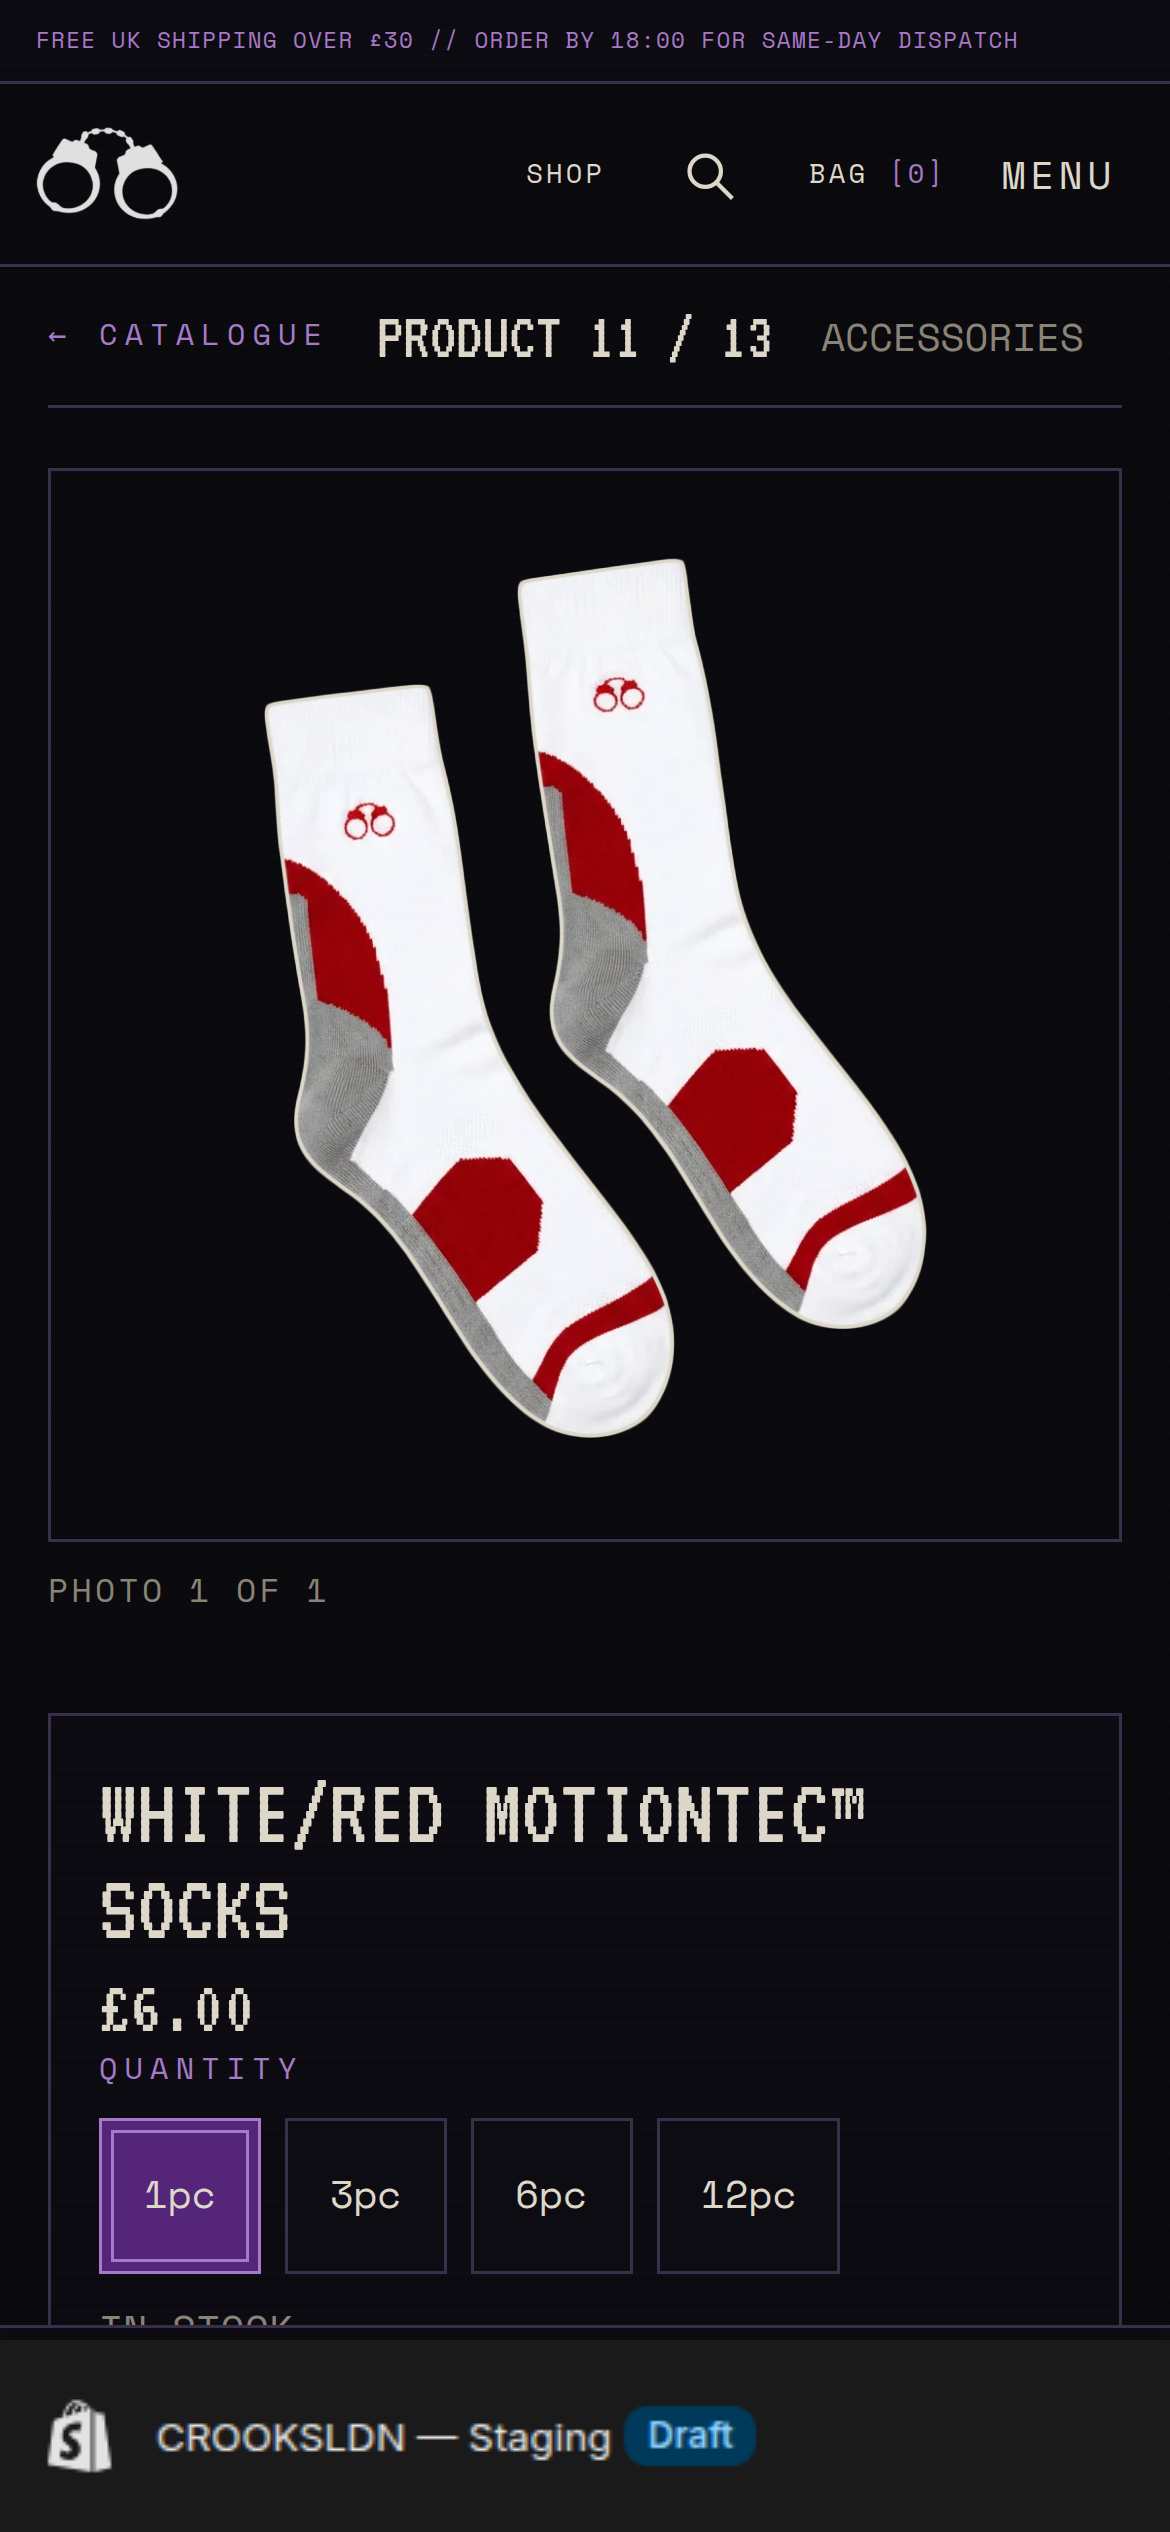
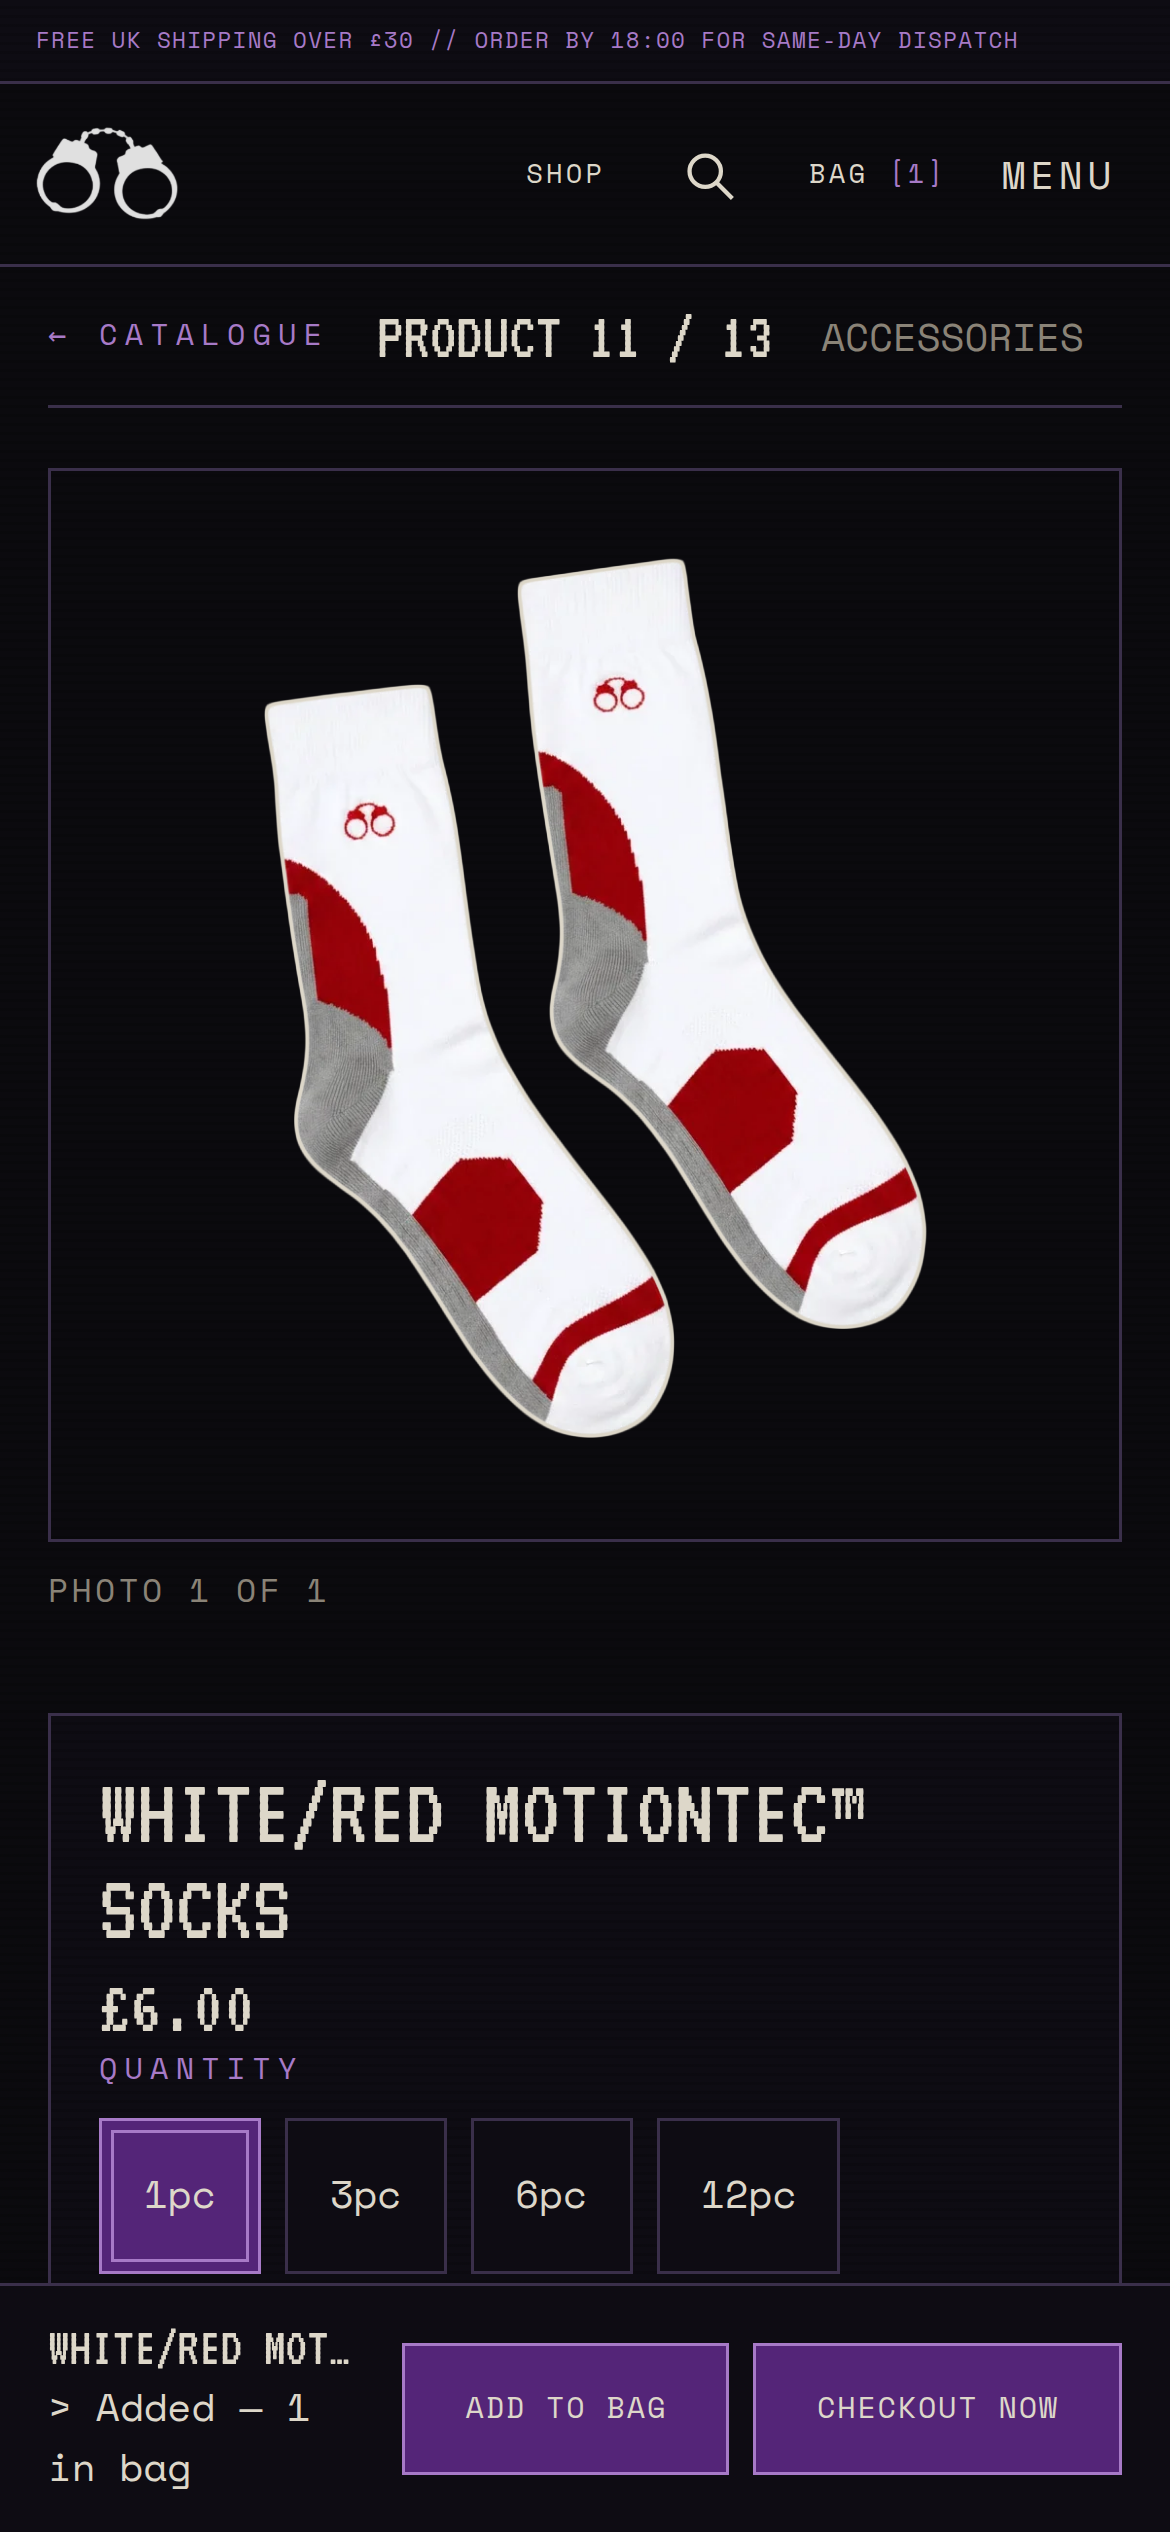
Rerun: persona 07 impulse journey (run 2)
Claude-Session: https://claude.ai/code/session_01UYa9fwHYTHfAEduSXfu9eY

Changed region(s): [[0.0308, 0.9048, 0.9846, 0.9984]]

diff --git a/audit/rerun/journeys/07-impulse-socks.md b/audit/rerun/journeys/07-impulse-socks.md
@@ -1,0 +1,63 @@
+# 07 — Jamie, 24, wants one pair of white socks and nothing else
+
+**Device:** iPhone-class mobile (390×844), normal wifi · **Goal:** the white MOTIONTEC socks — £6, in the bag, done · **Mood:** Wednesday evening, ~19:30, phone in one hand, wants this over in two minutes
+
+### Step 1 — Landed on the homepage
+**Did:** Opened the site. Cookie banner sat across the middle of the screen; behind it the ticker read "FREE UK SHIPPING OVER £30 // ORDER BY 18:00 FOR SAME-DAY DISPATCH" and I could already see the catalogue runs down the homepage itself — socks listed at NO. 10 and NO. 11, £6.
+**Got:** One tap on Accept (tap 1) and the banner was gone.
+**Expected:** A cookie thing. Fine. Everyone has one.
+**Felt:** "£30 for free shipping. My socks are six quid. So that's not happening — unless postage is silly money, we'll see."
+**Next:** Straight down to the socks. Except—
+
+### Step 2 — Got jumped by the Getaway popup
+**Did:** About a second after the cookie banner went, a black takeover slid up: "CROOKSLDN: THE GETAWAY — Crack the cuffs. 10% off your first order — code sent by text. Attempts unlimited." Buttons: RUN IT / NOT NOW. I did the maths (10% of £6 is 60p) and then tapped RUN IT anyway because the button was purple and I have no discipline (tap 2).
+**Got:** A second screen, pixel-arcade style: "CRACK THE CUFFS. 10% off your first order if you do. Three tumblers. Tap each one at the right moment." Another RUN IT (tap 3), then the actual game: "TAP TO STOP", a bar sweeping over three tumblers, "0/3 LOCKED". I tapped three times (taps 4–6), timed none of them, and got "CUFFS HOLD. Run it again — attempts are unlimited," plus a line underneath about skipping the game and joining the register on the site instead.
+**Expected:** A boring email popup. This was at least a game — but I lost, to a popup, for 60p.
+**Felt:** "That was 45 seconds of my life for nothing. And the prize needs my phone number — 'code sent by text' — for sixty pence off socks? Not a chance." (Observed only — I never got as far as any number entry, and wouldn't have typed one.)
+**Next:** Close it and buy the socks like an adult.
+
+### Step 3 — Dismissed it and jumped to the catalogue
+**Did:** Tapped the × (tap 7), then tapped CATALOGUE under the logo (tap 8) which jumped me down to the product register.
+**Got:** The register: 13 items with filter chips above — ALL, DENIM, SWEATS, T-SHIRT… and ACCESSORIES cut off past the edge of the screen. I went for ACCESSORIES to shortcut to socks and my tap hit nothing because the chip was basically off-screen (tap 9, wasted — you have to swipe the chip row sideways and nothing tells you that). Gave up on the filter and just thumbed down the list.
+**Expected:** Filter chips that fit on a phone, or at least a hint there are more.
+**Felt:** "Half a button hanging off the screen edge. Whatever — scrolling nine cards isn't the end of the world."
+**Next:** Card NO. 11, WHITE/RED MOTIONTEC™ SOCKS, £6.00, AVAILABLE.
+
+### Step 4 — Sock page, and a pack-size curveball
+**Did:** Tapped the card (tap 10). Product page: big clean photo, £6.00, and instead of sizes a QUANTITY grid — 1pc / 3pc / 6pc / 12pc.
+**Got:** Tapped through the packs out of curiosity: 3pc £15, 6pc £25, 12pc £45. Under it: "Order before 18:00 and it ships today (Mon–Sat) — Ordered now — leaves tomorrow" (evening, so fair). I also opened the CHAIN OF CUSTODY — SHIPPING & RETURNS accordion (tap 11) to find what postage actually costs on a £6 order: Royal Mail Tracked, free over £30, free Tracked 24 over £80, UK 1–2 working days — but no price for shipping UNDER £30. Anywhere. (Method note: my main pass ran mid-afternoon and the line read "leaves today"; the evening state above was verified with the clock set to Wed 19:30 — it flips honestly.)
+**Expected:** Socks to be one tap. And a line like "UK shipping £X, free over £30".
+**Felt:** "Six-pack for £25 is £4.17 a pair, tempting… hang on, £25 STILL doesn't get free shipping. The six-pack lands £5 short of their own £30 bar. That's either clumsy or cheeky. And nobody will tell me what postage costs on a £6 order."
+**Next:** One pair. Add it.
+
+### Step 5 — Picked 1pc, added to bag
+**Did:** Tapped 1pc (tap 12) — the grey "SELECT QUANTITY" button woke up into ADD TO BAG, with a sticky bar at the bottom carrying ADD TO BAG and a purple CHECKOUT NOW. Tapped ADD TO BAG on the sticky bar (tap 13).
+**Got:** Instant feedback: the sticky bar flipped to "Added — 1 in bag", a little "View bag" link appeared, header went BAG [1]. No drawer shoved in my face.
+**Expected:** Some cart drawer takeover. This was quieter and better.
+**Felt:** "Clean. It told me it worked and got out of the way."
+**Next:** Bag.
+
+### Step 6 — The cart, and the carriage bar's opinion of my £6
+**Did:** Tapped BAG [1] (tap 14).
+**Got:** Cart page. Top of it: "> £24.00 to free Tracked 48" over a progress track — my £6 filled about 7% of it, with a tick mark further along (that's the £30 line, the track runs to £80 for "TRACKED 24 FREE"). Below: my socks, 1pc, £6.00, quantity steppers, a Discount accordion, "Estimated total £6.00 GBP", "Duties and taxes included. Shipping is calculated at checkout." Then "You may also like": crewneck £50, shorts £45, jeans £60, jorts £50.
+**Expected:** The bar to have a go at me — it did, politely.
+**Felt:** "£24 to free shipping — that's four times what I'm spending, on SOCKS. Not tempted, it's just background noise at my basket size. What would tempt me is knowing shipping costs £3-something and a line saying 'the 6-pack nearly gets you there' — but the six-pack is £25 so even that misses, and the 'you may also like' wants me to add FIFTY-QUID jumpers to save a few quid of postage. Read the room — where's the £6 black pair or the £18 duffle?"
+**Next:** Checkout, take the postage hit, whatever it is.
+
+### Step 7 — Check out, stop at the door
+**Did:** Tapped Check out (tap 15).
+**Got:** Real Shopify checkout on crooksldn.com, order summary £6.00, express-pay row, then Contact and Delivery forms. Shipping cost: still unknown — it only appears after I type an address. Stopped here (audit rule: no personal data, stop before payment).
+**Expected:** By now, SOME number for delivery. I've reached the checkout and I still don't know if my £6 socks cost £8.50 or £11 delivered.
+**Felt:** "Fifteen taps, three-ish minutes, six of those taps donated to a popup game I lost. The shop itself is quick — the socks bit was genuinely slick — but I'm entering my address to find out the postage on a £6 order, and that's the one number a £6 customer cares about."
+**Next:** Would've filled it in and paid, grumbling slightly at whatever the postage turned out to be.
+
+## Outcome
+**Bought / didn't:** Would have bought — 1pc WHITE/RED MOTIONTEC™ SOCKS, £6.00, reached checkout landing and stopped per audit rules. Did NOT top up: the £24 gap is 4× the basket, and nothing cheap was offered to bridge it.
+**Total time:** ~3 minutes (would've been under 2 without the Getaway detour).
+**Worst moment:** Realising at the checkout door that the shipping price on a sub-£30 order is stated nowhere — not the PDP accordion, not the cart ("calculated at checkout"), not the FAQ ticker. For a £6 basket, postage IS the purchase decision.
+**Best moment:** 1pc → sticky ADD TO BAG → "Added — 1 in bag". Three seconds, no drawer, no fuss. (Honourable mention: the dispatch line honestly flipping to "leaves tomorrow" in the evening.)
+**Would they come back?** Yes — for socks or a proper order. The shop is fast when you let it be. The popup gets one polite refusal next time, not a game.
+**One thing that would have changed the outcome:** Not the outcome — the mood: print the flat UK shipping price next to "free over £30" (and in the cart), and make the top-up story coherent at small basket sizes — a £6/£18 suggestion against a £24 gap, or a 6-pack priced at £30 instead of £25 so the bar and the packs actually shake hands.
+
+---
+*Taps: 15 to checkout landing (1 cookie, 6 popup game incl. dismiss, 8 shopping — one wasted on the off-screen ACCESSORIES chip). Clean path without the game: 8 taps; using the PDP's CHECKOUT NOW fast lane (verified: PDP → real checkout in ~4s, skips cart): 6.*
